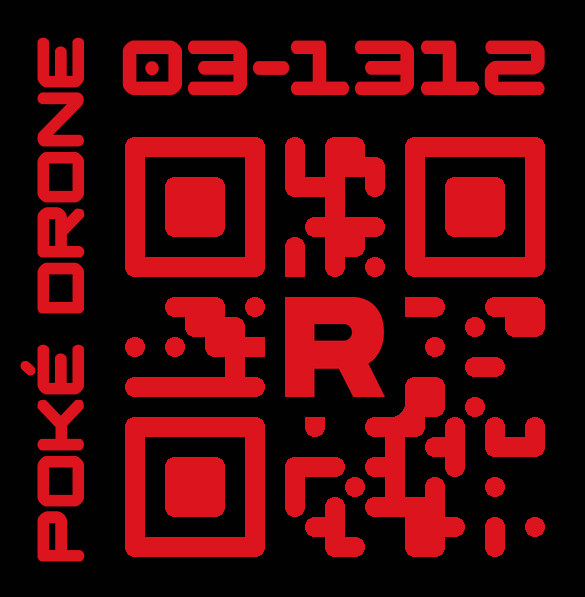
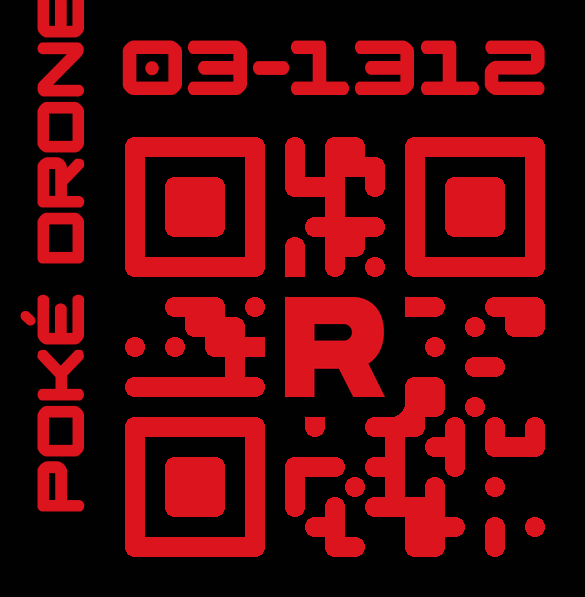
added new feat docs

Changed region(s): [[0.0308, 0.0, 0.1538, 0.9648]]

diff --git a/DroneTools.py b/DroneTools.py
@@ -69,7 +69,7 @@ class DroneTag():
         # Title
         side_text = drone_data.get("title", "")
         title_size = drone_data.get("title_size", None)
-        title_shift = drone_data.get("title_shift", 0)
+        title_shift = drone_data.get("title_shift", 50)
         title_margin = drone_data.get("title_margin_override", text_margin)
         title_spacing = drone_data.get("title_padding_override", text_spacing)
 

diff --git a/README.md b/README.md
@@ -121,22 +121,30 @@ More examples and tests in DroneTools.py
     When 'True' the generated image is padded out into a perfect square.\
     When ommited, the default is 'False'.
 - `'top_padding': INT`\
-    TODO: Write Entry
+    Adds padding to the top of the tag.\
+	When omitted, the padding is selected automatically.
 - `'bottom_padding': INT`\
-    TODO: Write Entry
+    Adds padding to the bottom of the tag.\
+	When omitted, the padding is selected automatically.
 - `'left_padding': INT`\
-    TODO: Write Entry
+    Adds padding to the left of the tag.\
+	When omitted, the padding is selected automatically.
 - `'right_padding': INT`\
-    TODO: Write Entry
+    Adds padding to the right of the tag.\
+	When omitted, the padding is selected automatically.
 
 ## Text Options
 - `'front_path': STRING`\
     Sets path for the font file used for text to a custom one.\
     When ommited, the default font is used.
 - `'text_margin': INT`\
-    TODO: Write Entry
+    Sets the margin on the left and right of all text.\
+    Set this when using a custom font.\
+    When ommited, text margins are selected automatically.
 - `'text_padding': INT`\
-    TODO: Write Entry
+    Sets the padding seperating all text from the code.\
+    Set this when using a custom font.\
+    When ommited, text padding is selected automatically.
 
 ##### ID Options (Top Text)
 
@@ -152,7 +160,9 @@ More examples and tests in DroneTools.py
     Overrides the ID number's size.\
     When ommited, the ID's size is selected automatically.
 - `'id_shift': INT`\
-    TODO: Write Entry
+    Shifts the ID text left or right of center. Postitive numbers will shift right
+	while negative number will shift left.\
+	When ommited, the ID will be centered.
 - `'id_margin_override': INT`\
     Overrides the margin on the left and right of the ID.\
     Set this when using a custom font.\
@@ -171,7 +181,9 @@ More examples and tests in DroneTools.py
     Overrides the title's size.\
     When ommited, the title's size is selected automatically.
 - `'title_shift': INT`\
-    TODO: Write Entry
+    Shifts the Title text up or down of center. Postitive numbers will shift up
+	while negative number will shift down.\
+	When ommited, the title will be centered.
 - `'title_margin_override': INT`\
     Overrides the margin on the top and bottom of the title.\
     Set this when using a custom font.\
@@ -185,7 +197,8 @@ More examples and tests in DroneTools.py
 
 - `'barcode': BOOLEAN`\
     When 'True' a barcode is generated instead of a QR Code.
-    This should only be used with small sizes of data, such as the ID number. Links or messages should use a QR code.\
+    This should only be used with small sizes of data, such as the ID number. 
+	Links or messages should use a QR code.\
     Logo options are ignored in this mode.\
     When ommited, the default is 'False'.
 - `'code_data': BYTES|STRING`\
